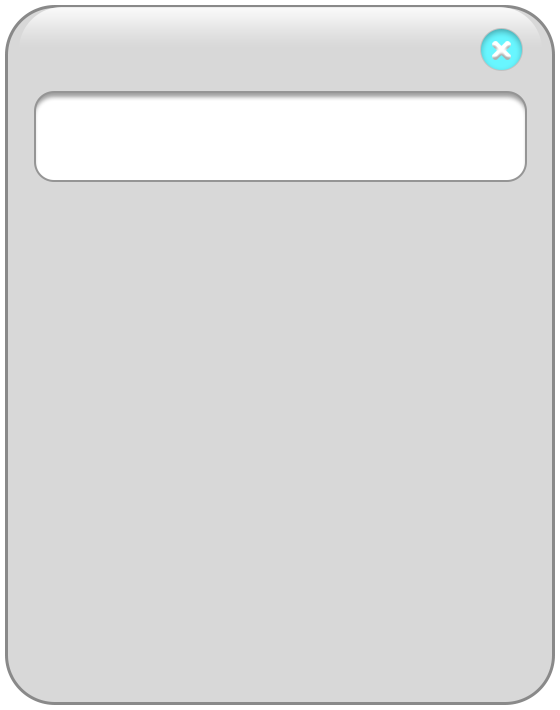
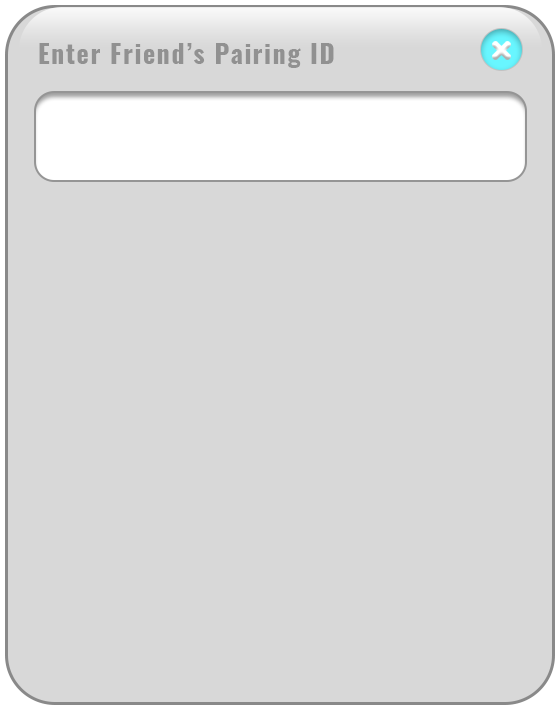
Change in s

Changed region(s): [[0.0607, 0.062, 0.6071, 0.093]]

diff --git a/client/assets/js/intro.js b/client/assets/js/intro.js
@@ -71,7 +71,7 @@ class Intro extends Phaser.Scene {
 
         socket.on('pairingError', (data) => {
             
-            if ( this.isPrompted) this.promptCont.destroy ();
+            if ( this.pairWaitCont) this.pairWaitCont.destroy ();
 
             const prompt = this.showPromptScreen ( data.errorMsg, 0, 30 );
 
@@ -84,7 +84,7 @@ class Intro extends Phaser.Scene {
             
             const gameStr = data.gameType == 0 ? 'Classic' : 'Blitz';
 
-            this.showInviteScreen ( `You have been invited by '${data.username}' to play '${gameStr}'` );
+            this.showInviteScreen ( `You have been invited by '${data.username}' to play '${gameStr}' game.` );
 
         });
 
@@ -93,7 +93,7 @@ class Intro extends Phaser.Scene {
     createMenu ()
     {
         //add menu
-        const menuArr = [ 'Play vs Computer', 'Play vs Online', 'Play vs Friend'];
+        const menuArr = [ 'Play Vs Computer', 'Play Vs Online', 'Challenge A Friend'];
 
         for ( var i in menuArr ) {
 
@@ -167,7 +167,7 @@ class Intro extends Phaser.Scene {
         //miniCont
         let miniCont = this.add.container ( 960, 540  ); //1230
 
-        let rcte = this.add.rectangle ( 0, 0, 700, 300, 0xf3f3f3, 0.9 ).setStrokeStyle ( 2, 0x9e9e9e );
+        let rcte = this.add.rectangle ( 0, 0, 800, 280, 0xf3f3f3, 0.9 ).setStrokeStyle ( 2, 0x9e9e9e );
 
         let txte = this.add.text ( 0, -50, txt, { color:'#000', fontFamily:'Oswald', fontSize: 30 }).setOrigin(0.5);
 
@@ -361,9 +361,7 @@ class Intro extends Phaser.Scene {
 
         this.pairingScreenCont.destroy ();
 
-        this.isPrompted = true;
-
-        this.promptCont =  this.showPromptScreen ('Waiting For Response..' );
+        this.pairWaitCont =  this.showPromptScreen ('Waiting For Response..' );
 
     }
 

diff --git a/app.js b/app.js
@@ -280,7 +280,6 @@ io.on('connection', function(socket){
 				
 				player.pairedRoom = '';
 
-
 				let hostId = room.players [0];
 
 				playerList [ hostId ].reset ();
